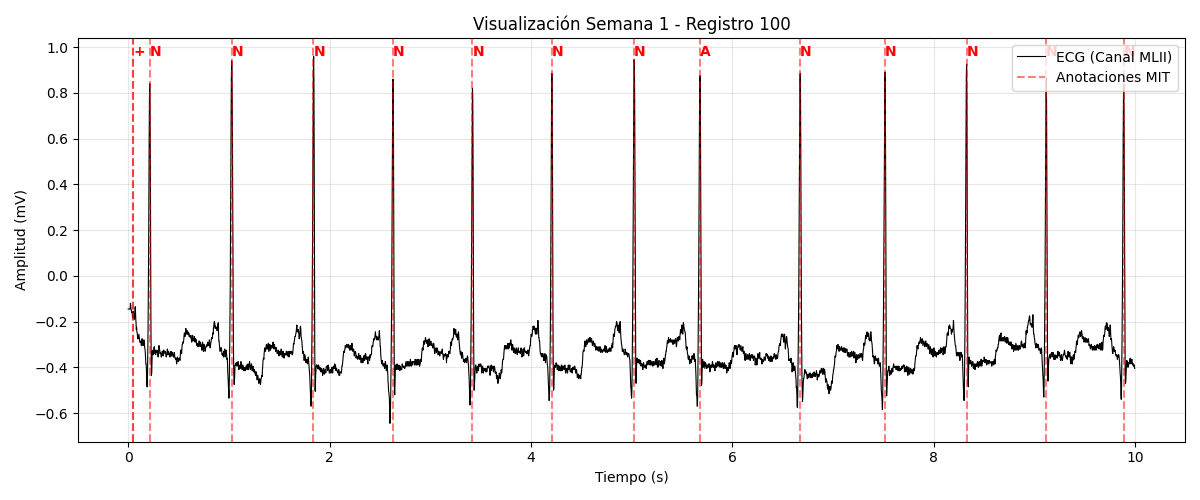
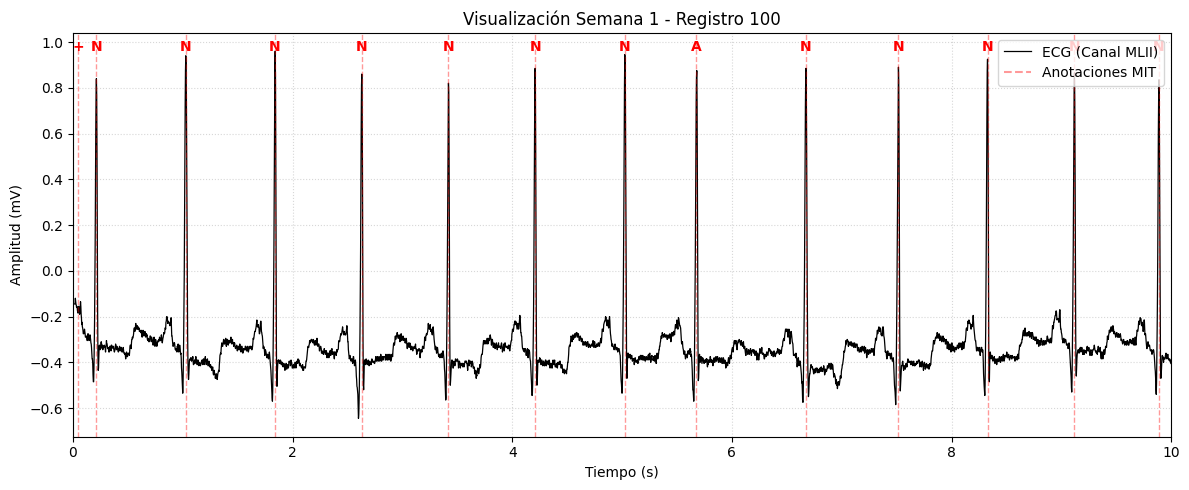
Modificacion y correcion grafica  para tomar el tiempo cero desde el punto de origen y el tiempo 10 como el final

diff --git a/modulos/semana1.py b/modulos/semana1.py
@@ -8,6 +8,7 @@ BASE_DIR = os.path.dirname(os.path.dirname(os.path.abspath(__file__)))
 DATA_PATH = os.path.join(BASE_DIR, 'datos')
 RESULT_PATH = os.path.join(BASE_DIR, 'resultados')
 
+
 class AdquisicionPhysioNet:
     """
     Clase para gestionar la descarga, lectura y visualización de señales
@@ -35,17 +36,18 @@ class AdquisicionPhysioNet:
         n_derivaciones = self.record.n_sig
         duracion_seg = self.record.sig_len / fs
 
-        print(f"\n" + "="*40)
+        print(f"\n" + "=" * 40)
         print(f"ANÁLISIS DEL REGISTRO: {self.nombre_reg}")
         print(f"Frecuencia de Muestreo: {fs} Hz")
         print(f"Duración Total: {duracion_seg:.2f} segundos")
         print(f"Número de Derivaciones: {n_derivaciones}")
         print(f"Unidades de la Señal: {unidades}")
-        print("="*40)
+        print("=" * 40)
 
     def graficar_señal(self, segundos=10):
         """
         Genera una gráfica de la señal en mV con sus respectivas anotaciones.
+        Ajusta los ejes para eliminar espacios desaprovechados.
         :param segundos: Cantidad de tiempo a visualizar.
         """
         muestras = int(self.record.fs * segundos)
@@ -56,28 +58,41 @@ class AdquisicionPhysioNet:
         senal = record_plot.p_signal[:, 0]
 
         plt.figure(figsize=(12, 5))
-        # Se agrega 'label' para cumplir con el requisito de leyenda
-        plt.plot(tiempo, senal, color='black', lw=0.8, label=f'ECG (Canal {record_plot.sig_name[0]})')
+
+        # Graficar la señal
+        plt.plot(tiempo, senal, color='black', lw=0.9, label=f'ECG (Canal {record_plot.sig_name[0]})')
 
         # Superponer anotaciones
         for i in range(len(self.ann.sample)):
             pos_x = self.ann.sample[i] / self.record.fs
-            plt.axvline(x=pos_x, color='red', linestyle='--', alpha=0.5)
-            if i == 0: # Solo ponemos label a la primera línea para la leyenda
-                plt.axvline(x=pos_x, color='red', linestyle='--', alpha=0.5, label='Anotaciones MIT')
-            plt.text(pos_x, max(senal), self.ann.symbol[i], color='red', fontweight='bold')
+            plt.axvline(x=pos_x, color='red', linestyle='--', alpha=0.4, lw=1)
+
+            # Solo etiquetar la primera anotación en la leyenda
+            label_text = 'Anotación MIT' if i == 0 else ""
+            if i == 0:
+                plt.plot([], [], color='red', linestyle='--', alpha=0.4, label='Anotaciones MIT')
+
+            plt.text(pos_x, max(senal), self.ann.symbol[i], color='red',
+                     fontweight='bold', horizontalalignment='center')
+
+        # --- MEJORA DE EJES Y LÍMITES ---
+        plt.xlim(0, segundos)  # AJUSTE CLAVE: Elimina los espacios a los lados
 
         plt.title(f"Visualización Semana 1 - Registro {self.nombre_reg}")
         plt.xlabel("Tiempo (s)")
         plt.ylabel(f"Amplitud ({self.record.units[0]})")
-        plt.grid(True, alpha=0.3)
-        plt.legend(loc='upper right') # REQUISITO: Leyenda incluida
+        plt.grid(True, which='both', linestyle=':', alpha=0.5)
+        plt.legend(loc='upper right')
+
         plt.tight_layout()
 
         if not os.path.exists(RESULT_PATH):
             os.makedirs(RESULT_PATH)
-        plt.savefig(os.path.join(RESULT_PATH, f'grafica_{self.nombre_reg}.png'))
+
+        nombre_archivo = f'grafica_{self.nombre_reg}.png'
+        plt.savefig(os.path.join(RESULT_PATH, nombre_archivo), bbox_inches='tight')
         plt.show()
+
 
 if __name__ == "__main__":
     for reg_id in ['100', '105']:

diff --git a/README.md b/README.md
@@ -9,4 +9,4 @@ En la Sierra Nevada y la Serranía del Perijá, el acceso a especialistas es lim
 1. Configurar el entorno: `conda create -n stcsierra python=3.10`
 2. Instalar dependencias: `pip install -r requirements.txt`
 3. Descargar datos: Ejecutar `python modulos/descarga_datos.py`
-4. Procesar Semana 1: Ejecutar `python modulos/semana1.py`
+4. Procesar Semana 1: Ejecutar `python modulos/semana1.py`n
